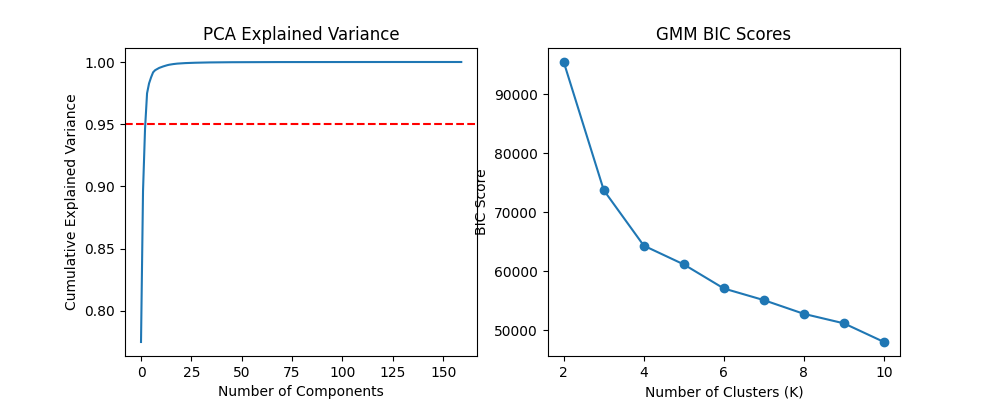
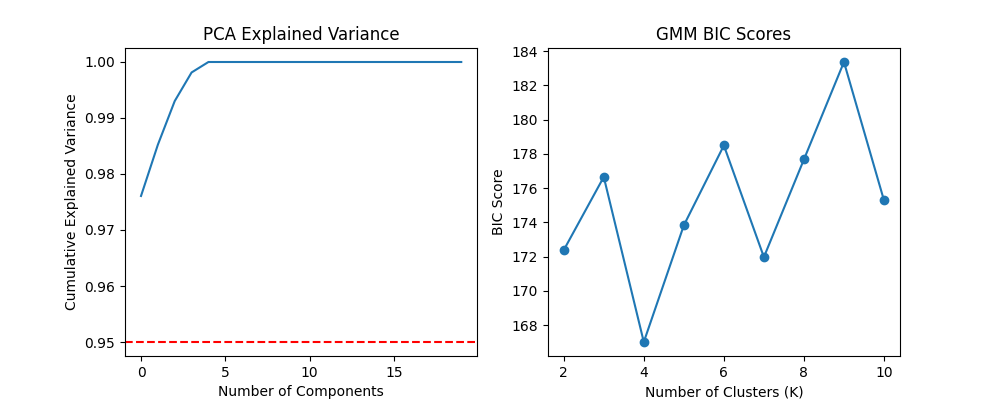
refactor: Movde analysis into src/utils & enhance metrics
Remove top-level scripts analyze_clusters.py and get_winners.py and consolidate their logic into a new module src/utils/analysis.py which provides get_winners, analyze_cluster_differentiation, and extract_id_from_filename for reusable analysis utilities. Update src/utils/metrics.py to add compute_det_curve, refactor compute_eer to use the DET computation (returning eer, far, frr, thresholds), and add compute_tDCF for t-DCF calculation using ASVspoof constants.

diff --git a/src/utils/metrics.py b/src/utils/metrics.py
@@ -10,32 +10,68 @@ False Acceptance Rate (FAR) and False Rejection Rate (FRR) are equal.
 import numpy as np
 from sklearn.metrics import roc_curve
 
+def compute_det_curve(bonafide_scores, spoof_scores):
+    """
+    Computes FRR and FAR with their thresholds.
+    """
+    all_scores = np.concatenate((bonafide_scores, spoof_scores))
+    labels = np.concatenate((np.ones(bonafide_scores.size), np.zeros(spoof_scores.size)))
+
+    indices = np.argsort(all_scores, kind='mergesort')
+    labels = labels[indices]
+
+    tar_trial_sums = np.cumsum(labels)
+    nontarget_trial_sums = spoof_scores.size - (np.arange(1, all_scores.size + 1) - tar_trial_sums)
+
+    frr = np.concatenate((np.atleast_1d(0), tar_trial_sums / bonafide_scores.size))
+    far = np.concatenate((np.atleast_1d(1), nontarget_trial_sums / spoof_scores.size))
+    thresholds = np.concatenate((np.atleast_1d(all_scores[indices[0]] - 0.001), all_scores[indices]))
+
+    return frr, far, thresholds
+
 def compute_eer(bonafide_scores: np.ndarray, spoof_scores: np.ndarray):
     """
     Calculates the Equal Error Rate (EER) following the ASVspoof standard.
-    
-    The EER is computed by finding the point on the ROC curve where 
-    the False Positive Rate (FPR) and False Negative Rate (FNR) intersect.
     """
-    # Labels: 1 for bonafide, 0 for spoof
-    labels = np.concatenate([np.ones_like(bonafide_scores), np.zeros_like(spoof_scores)])
-    scores = np.concatenate([bonafide_scores, spoof_scores])
+    frr, far, thresholds = compute_det_curve(bonafide_scores, spoof_scores)
+    abs_diffs = np.abs(frr - far)
+    min_index = np.argmin(abs_diffs)
+    eer = np.mean((frr[min_index], far[min_index]))
+    return eer, far, frr, thresholds
+
+def compute_tDCF(bonafide_scores_cm, spoof_scores_cm, 
+                 Pfa_asv=0.0243, Pmiss_asv=0.00, Pmiss_spoof_asv=0.7628):
+    """
+    Computes the Tandem Detection Cost Function (t-DCF) using ASVspoof 2019 LA constants.
     
-    # Generate ROC curve points
-    fpr, tpr, thresholds = roc_curve(labels, scores, pos_label=1)
+    Default ASV error rates are from the 2019 LA evaluation set.
+    """
+    # Official ASVspoof 2019 LA constants
+    cost_model = {
+        'Ptar': 0.9405,
+        'Pnon': 0.0595,
+        'Pspoof': 0.05,
+        'Cmiss_asv': 1.0,
+        'Cfa_asv': 10.0,
+        'Cmiss_cm': 1.0,
+        'Cfa_cm': 10.0
+    }
+
+    Pmiss_cm, Pfa_cm, _ = compute_det_curve(bonafide_scores_cm, spoof_scores_cm)
+
+    # Constants C1 and C2 for the linear combination of CM errors
+    C1 = cost_model['Ptar'] * (cost_model['Cmiss_cm'] - cost_model['Cmiss_asv'] * Pmiss_asv) - \
+         cost_model['Pnon'] * cost_model['Cfa_asv'] * Pfa_asv
+
+    C2 = cost_model['Cfa_cm'] * cost_model['Pspoof'] * (1.0 - Pmiss_spoof_asv)
+
+    # Obtain t-DCF curve for all thresholds
+    tDCF = C1 * Pmiss_cm + C2 * Pfa_cm
+
+    # Normalized t-DCF (min t-DCF is the minimum of this curve)
+    tDCFnorm = tDCF / np.minimum(C1, C2)
     
-    # False Negative Rate (FNR) is 1 - True Positive Rate (TPR)
-    fnr = 1 - tpr
-    
-    # Find the index where the difference between FPR and FNR is minimized
-    idx = np.nanargmin(np.absolute(fnr - fpr))
-    
-    # Calculate EER as the average of FPR and FNR at the crossover point.
-    # This handles edge cases like identical distributions (0.5 EER) correctly.
-    eer = (fpr[idx] + fnr[idx]) / 2
-    eer_threshold = thresholds[idx]
-    
-    return eer, fpr, fnr, thresholds
+    return np.min(tDCFnorm)
 
 def compute_mindcf(frr: np.ndarray, far: np.ndarray, thresholds: np.ndarray, 
                   Pspoof: float = 0.05, Cmiss: float = 1.0, Cfa: float = 10.0):

diff --git a/src/utils/analysis.py b/src/utils/analysis.py
@@ -1,0 +1,70 @@
+"""
+Analysis Utilities for KON-Artist.
+
+This module provides functions to process training logs, extract successful 
+attack samples (winners), and analyze acoustic cluster differentiation.
+"""
+
+import pandas as pd
+import re
+import os
+import logging
+
+def get_winners(df: pd.DataFrame, score_threshold: float = 0.5) -> pd.DataFrame:
+    """
+    Filters and sorts the dataframe to identify 'winners' (samples that fooled the detector).
+    """
+    if df.empty:
+        return df
+    
+    # Ensure mandatory columns exist
+    if 'score' not in df.columns or 'bonus' not in df.columns:
+        return pd.DataFrame()
+
+    winners = df[df['score'] >= score_threshold].copy()
+    winners = winners.sort_values(by="bonus", ascending=False)
+    return winners
+
+def analyze_cluster_differentiation(df: pd.DataFrame) -> pd.DataFrame:
+    """
+    Groups winners by cluster and calculates mean metrics and DSP parameters.
+    """
+    if df.empty:
+        return df
+
+    # Normalize cluster column name
+    if 'cluster' not in df.columns and 'cluster_id' in df.columns:
+        df = df.rename(columns={'cluster_id': 'cluster'})
+    
+    if 'cluster' not in df.columns:
+        return pd.DataFrame()
+
+    # Identify columns to aggregate
+    dsp_cols = [col for col in df.columns if col.startswith('dsp_')]
+    metrics = ['score', 'bonus']
+    if 'reward' in df.columns:
+        metrics.append('reward')
+    
+    agg_cols = metrics + dsp_cols
+    
+    # Filter out rows with no cluster information
+    df = df.dropna(subset=['cluster'])
+    if df.empty:
+        return pd.DataFrame()
+
+    # Aggregate
+    summary = df.groupby('cluster')[agg_cols].mean()
+    summary['count'] = df.groupby('cluster').size()
+    
+    # Reorder columns: count first
+    ordered_cols = ['count'] + metrics + dsp_cols
+    summary = summary[ordered_cols]
+    
+    return summary
+
+def extract_id_from_filename(filename: str) -> str:
+    """
+    Extracts the timestamp ID from a standard rewards file name.
+    """
+    match = re.search(r'_\d{8}_\d{6}', filename)
+    return match.group(0) if match else ''
